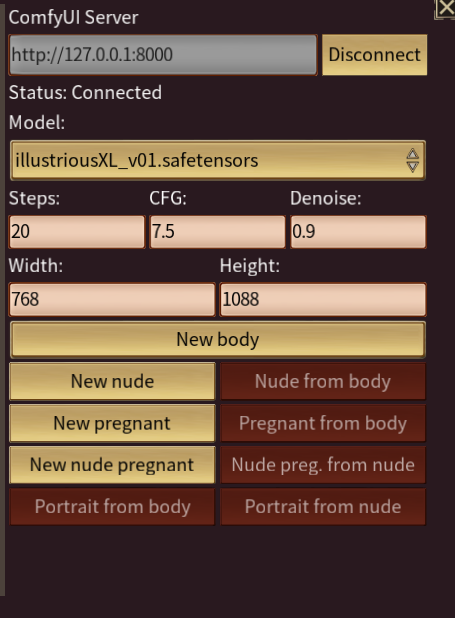
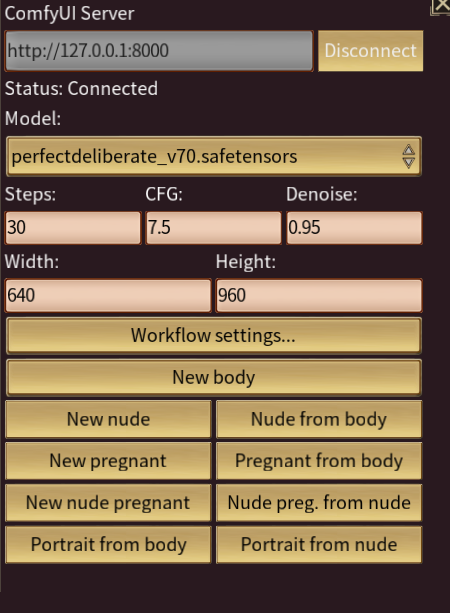
Update documentation, clean up lora list

diff --git a/PortraitGenerator/README.md b/PortraitGenerator/README.md
@@ -1,6 +1,6 @@
 # Strive: Conquest Portrait Generator
 
-![Preview of the UI](docs/ui-preview.png)
+![Preview of the UI](example.png)
 
 This mod enables two features in Strive: Conquest:
 
@@ -85,10 +85,55 @@ Clicking any of the "New" options will produce a fresh image totally independent
 
 Feel free to edit the prompts as you see fit. The game will not overwrite them unless you press the "Generate" button again.
 
+### Advanced usage
+
+![The workflow settings panel](docs/workflow-settings.png)
+
+#### Workflows
+
+You can import your own workflows if you're comfortable working with ComfyUI. The mod expects a few specific nodes to be present:
+
+For txt2img workflows:
+
+- A `StringPrimitive` node titled `positive_prompt`.
+- A `StringPrimitive` node titled `negative_prompt`.
+- An `IntPrimitive` node titled `steps`.
+- An `IntPrimitive` node titled `seed`.
+- An `IntPrimitive` node titled `width`.
+- An `IntPrimitive` node titled `height`.
+- A `FloatPrimitive` node titled `cfg_scale`.
+- A `Power Lora Loader (rgthree)` node for loading LoRAs.
+- A `LoadCheckpoint` node that loads your checkpoint.
+
+For img2img workflows:
+
+- A `StringPrimitive` node titled `positive_prompt`.
+- A `StringPrimitive` node titled `negative_prompt`.
+- An `IntPrimitive` node titled `steps`.
+- An `IntPrimitive` node titled `seed`.
+- A `FloatPrimitive` node titled `cfg_scale`.
+- A `FloatPrimitive` node titled `denoise`.
+- A `LoadImage` node titled `source_image` that loads the source image.
+- A `Power Lora Loader (rgthree)` node for loading LoRAs.
+- A `LoadCheckpoint` node that loads your checkpoint.
+
+For portrait workflows:
+
+- A `LoadImage` node titled `source_image` that loads the source image.
+
+To import your workflow into the mod, open it in ComfyUI, go to File > Export (API), and then save it into `<mod root>/workflows/<workflow type>`. For example, save a new txt2img workflow to `<mod root>/workflows/txt2img/my-fancy-workflow.json`.
+
+To use your workflow, open the mod panel from the character info screen, click "Workflow settings...", and select your workflow from the dropdowns at the top.
+
+#### LoRAs
+
+The mod can automatically pull in any LoRAs you have installed. Currently, you can configure which LoRAs to use and at what strength based on the character's race and sex. You can also configure global LoRAs to always use regardless of the character's attributes.
+
+LoRA settings are in the "Workflow settings..." panel.
+
 ## Known limitations
 
 - The current release is pretty rough around the edges. You will find bugs. Please report them here.
-- Right now, there's no support for any LoRAs. This means a lot of races are just not going to give you good results. I hope to add LoRA support in the future.
 - If you close the image preview without saving, the mod _will not_ remember that image. If you want to get it back, go find it in the ComfyUI app, which should still have it saved.
 
 ## Troubleshooting
@@ -122,5 +167,5 @@ ComfyUI has a fairly new security scheme that seems to sometimes interfere with 
 
 ## Acknowledgements
 
-- Special thanks to **Zeep** on Discord for helping me get to know ComfyUI.
+- Special thanks to **Zeep** on Discord for helping me get to know ComfyUI and for tons of advice on workflows.
 - Special thanks to Claude Code for writing pretty nearly all of this mod.
